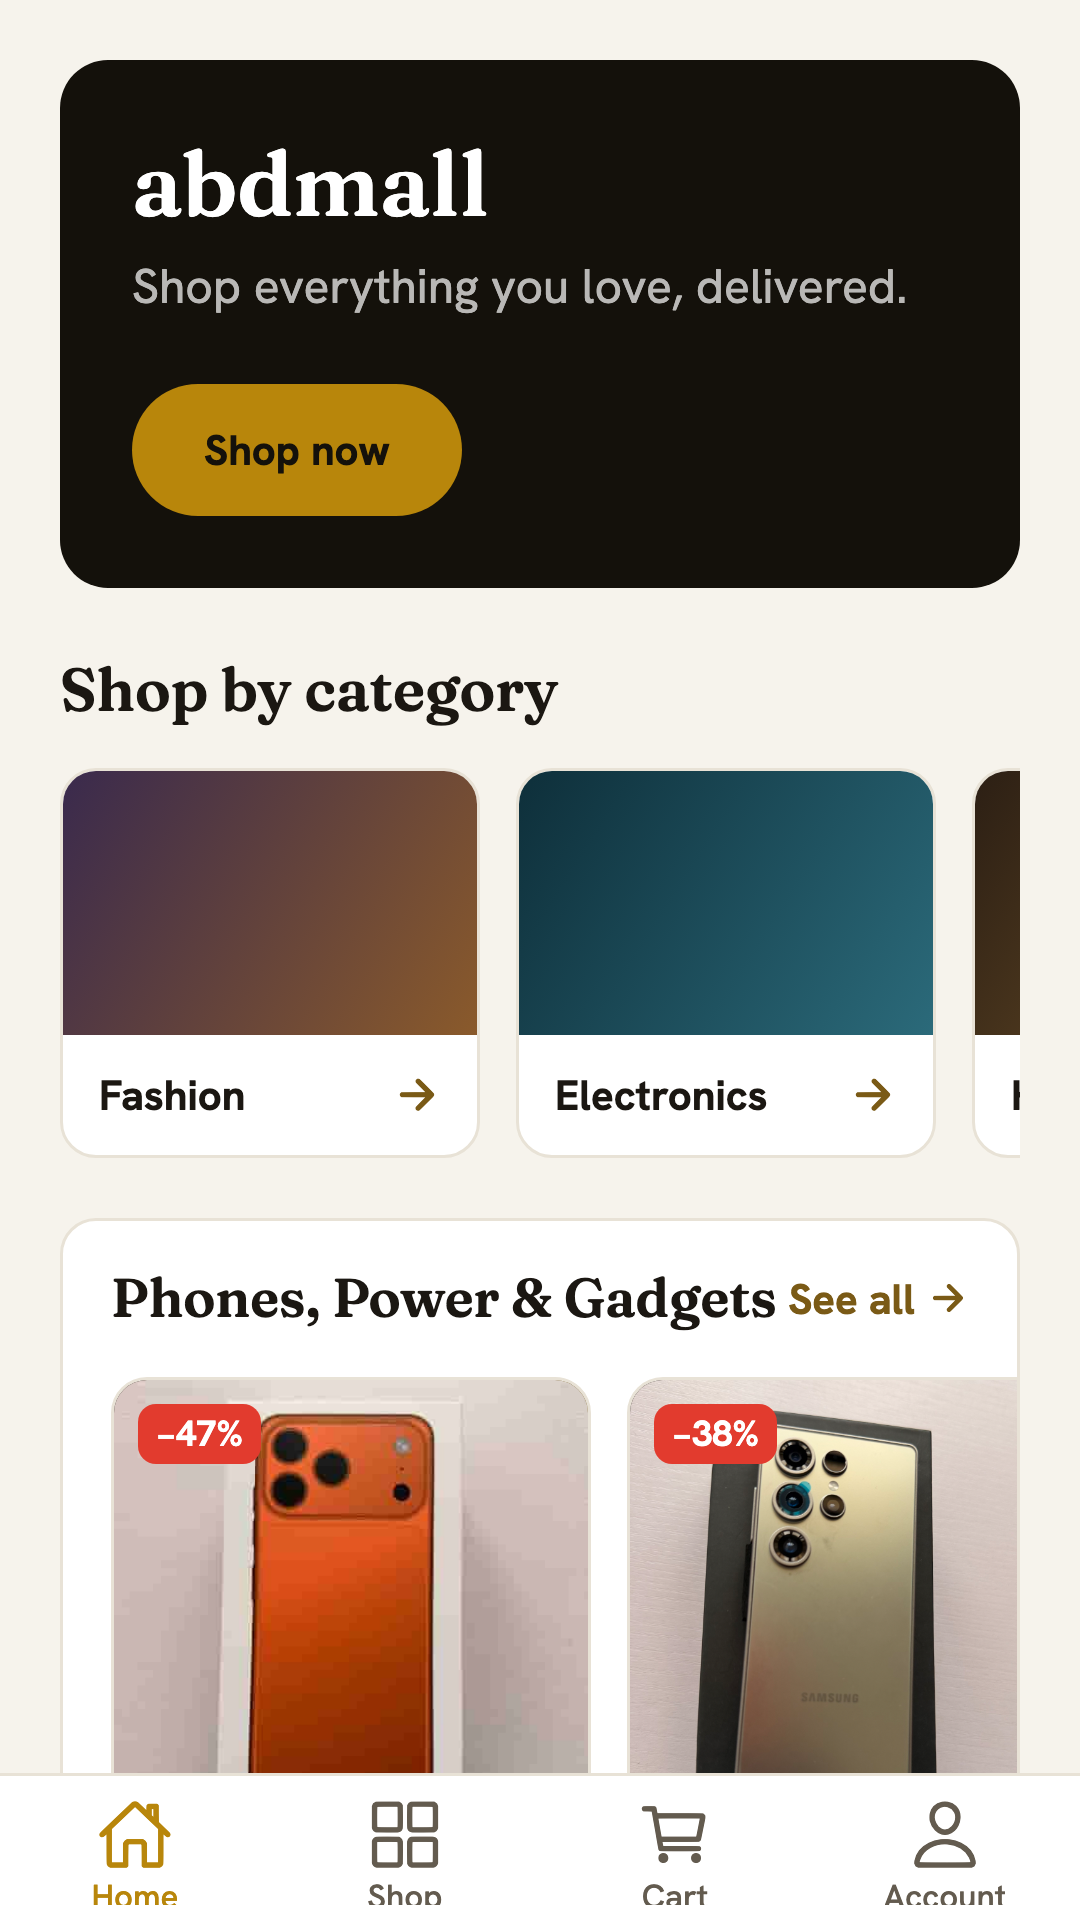
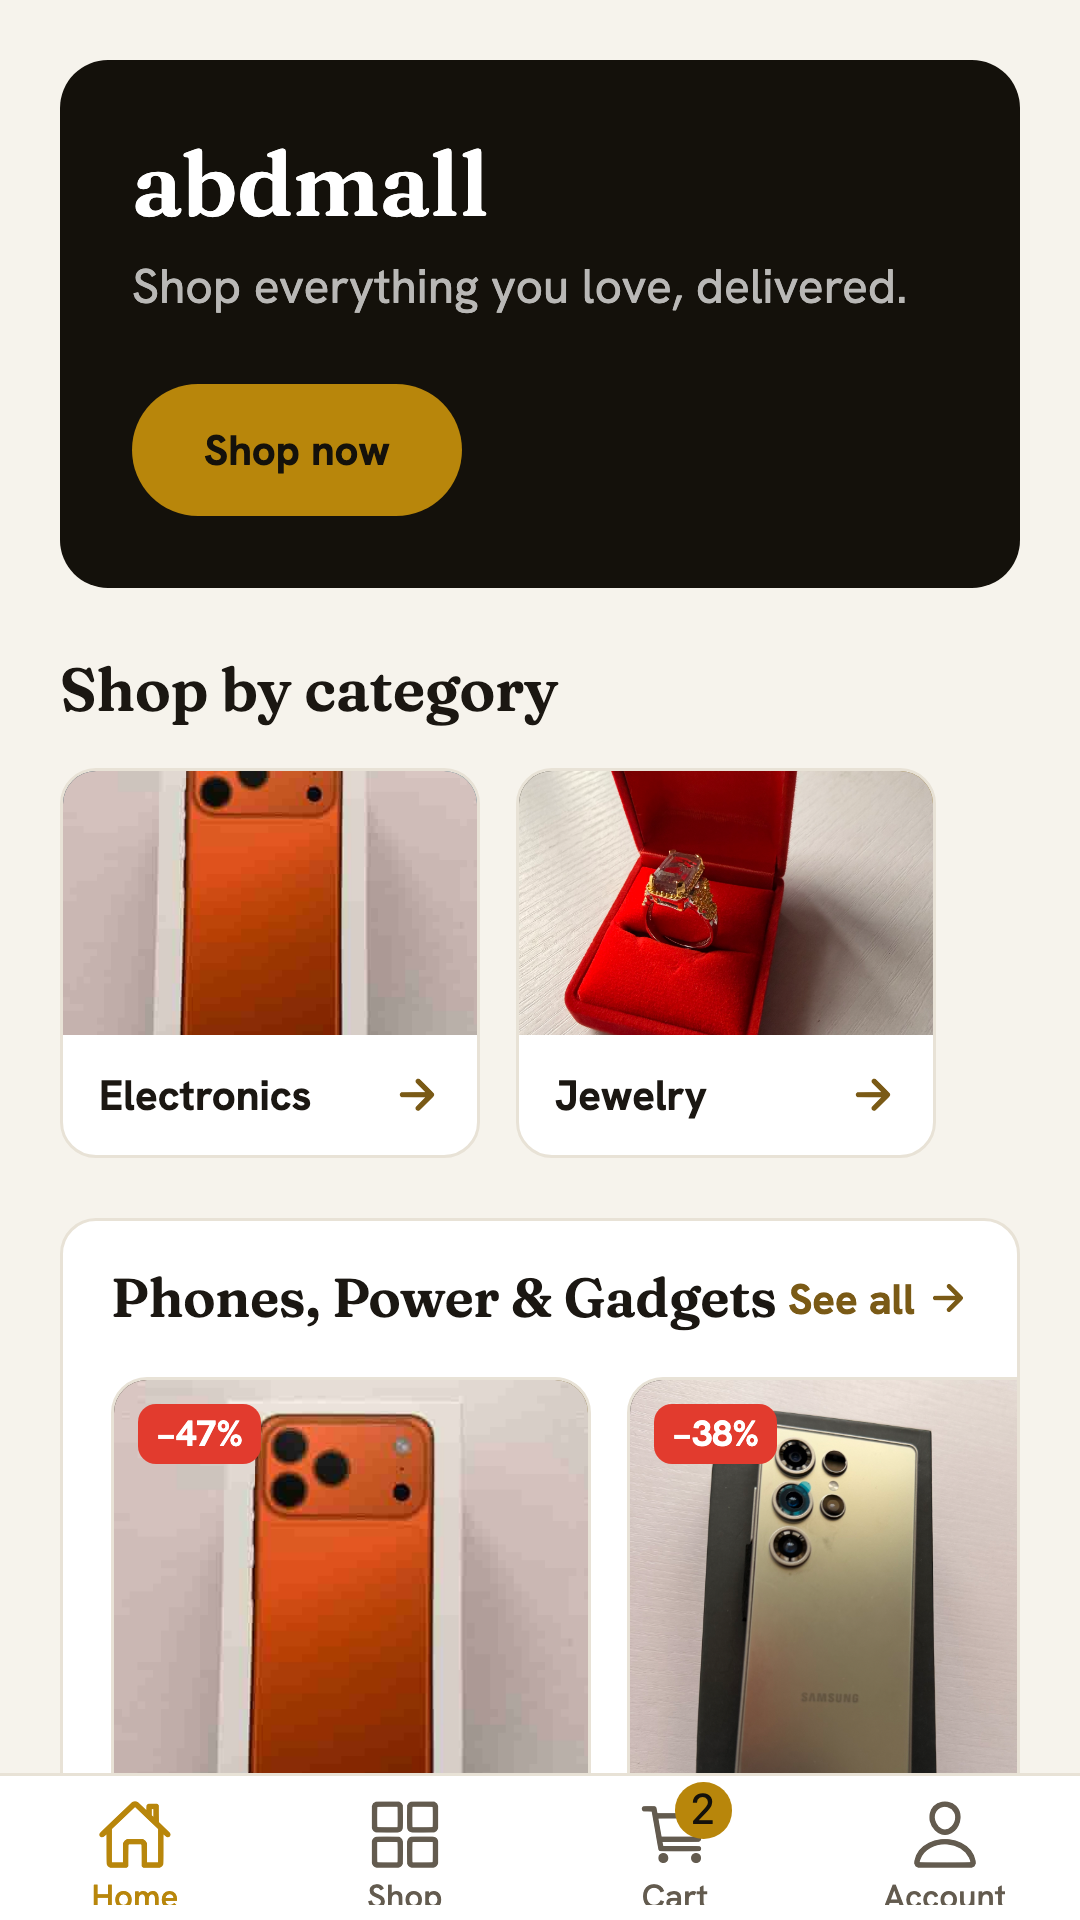
Rewrite the Play listing for the catalogue that exists
The copy I wrote yesterday opened by naming six departments, because the
database has six categories. Four are empty: the shop stocks 44 jewellery
pieces and 5 gadgets. I checked the total product count and never looked at
the distribution, so the listing advertised fashion, home, beauty and
groceries to customers who would have found nothing there.

It now describes silver rings and gemstones first, gadgets second, and names
the actual stones rather than inventing a range.

Screenshots recaptured against the fixed storefront: the home screen shows
two real categories with photographs instead of six tiles, four of them
empty and all six flat grey.

Notes at the end record what the copy deliberately omits and that it is the
one part of this that will not update itself when the empty categories are
stocked — the storefront brings those back on its own.

Changed region(s): [[0.0611, 0.375, 0.9472, 0.5938], [0.6111, 0.9062, 0.6722, 0.9688]]

diff --git a/docs/play-store-listing.md b/docs/play-store-listing.md
@@ -12,24 +12,27 @@ abdmall
 
 ## Short description · 80 characters
 
-Shown under the app name in search results. 74 characters:
+Shown under the app name in search results. 75 characters:
 
 ```
-Shop fashion, electronics, home and beauty in Nigeria. Pay card or transfer.
+Silver rings, gemstones and gadgets, delivered in Nigeria. Card or transfer.
 ```
 
 ## Full description · 4000 characters
 
 ```
-abdmall is an online store for everyday Nigerian shopping. Fashion,
-electronics, home and kitchen, beauty, jewellery and groceries — all in one
-place, with clear prices in naira.
+abdmall is an online shop for silver jewellery and everyday gadgets,
+delivered across Nigeria, with clear prices in naira.
 
-BROWSE AND BUY
-• Products across six categories, added to and updated regularly
-• Search by name, or filter by category and price
-• Discounts shown up front, so you can see what you are saving
-• Product photos and details before you commit
+SILVER RINGS AND GEMSTONES
+• Amethyst, opal, tourmaline, beryl, citrine and ruby
+• Rings and earrings, each photographed as it is — what you see is the
+  piece you receive
+• Prices marked down from the original, so you can see what you are saving
+
+PHONES, WATCHES AND GADGETS
+• Compact phones, smart watches and cameras
+• Honest specs in the description, no filler
 
 PAY THE WAY YOU PREFER
 • Card payment, handled securely by Paystack
@@ -60,9 +63,12 @@ abdmall — the mall in your pocket.
 
 | Asset | Spec | File |
 | --- | --- | --- |
-| App icon | 512 × 512 PNG, 32-bit | `play-icon-512.png` |
-| Feature graphic | 1024 × 500 PNG | `play-feature-1024x500.png` |
-| Phone screenshots | 2–8, 9:16, min 320px | `play-screenshot-*.png` |
+| App icon | 512 × 512 PNG, 32-bit | `play-assets/play-icon-512.png` |
+| Feature graphic | 1024 × 500 PNG | `play-assets/play-feature-1024x500.png` |
+| Phone screenshots | 4 supplied, 1080 × 1920 (9:16) | `play-assets/play-screenshot-*.png` |
+
+Screenshots are captured from the real app, not the website — the Expo build
+running on web, which is the same React Native code the Android build ships.
 
 ---
 
@@ -77,14 +83,23 @@ abdmall — the mall in your pocket.
 
 ---
 
-## Notes on what this copy deliberately does not say
+## What this copy deliberately does not say
 
-The earlier store-listing drafts promised mobile money, cash on delivery,
-live order tracking and buyer protection. None of those exist, and a listing
-that describes features the app does not have is both a Play policy problem
-and a refund conversation waiting to happen. This copy claims only what
-shipped: card and bank transfer, flat delivery with a free threshold, guest
-checkout, saved order history, WhatsApp support.
+**It does not name six departments.** An earlier draft opened with "fashion,
+electronics, home and kitchen, beauty, jewellery and groceries" because the
+catalogue has six categories. Four of them are empty — the shop stocks 44
+jewellery pieces and 5 gadgets. Those four are now hidden from the storefront,
+and the copy describes what is actually for sale.
 
-It also avoids naming an exact product count. The catalogue changes, and a
-listing that says "49 products" ages badly.
+**It does not promise mobile money, cash on delivery, live tracking or buyer
+protection.** Earlier drafts did. None exist, and a listing describing absent
+features is both a Play policy problem and a refund argument waiting to happen.
+
+**It does not give a product count.** The catalogue changes; "49 products"
+ages badly.
+
+## When Fashion, Beauty, Home or Groceries are stocked
+
+The storefront brings a category back automatically once it has an active
+product — there is no flag to flip. The listing copy is the part that does not
+update itself, so revisit the first two sections here at that point.
